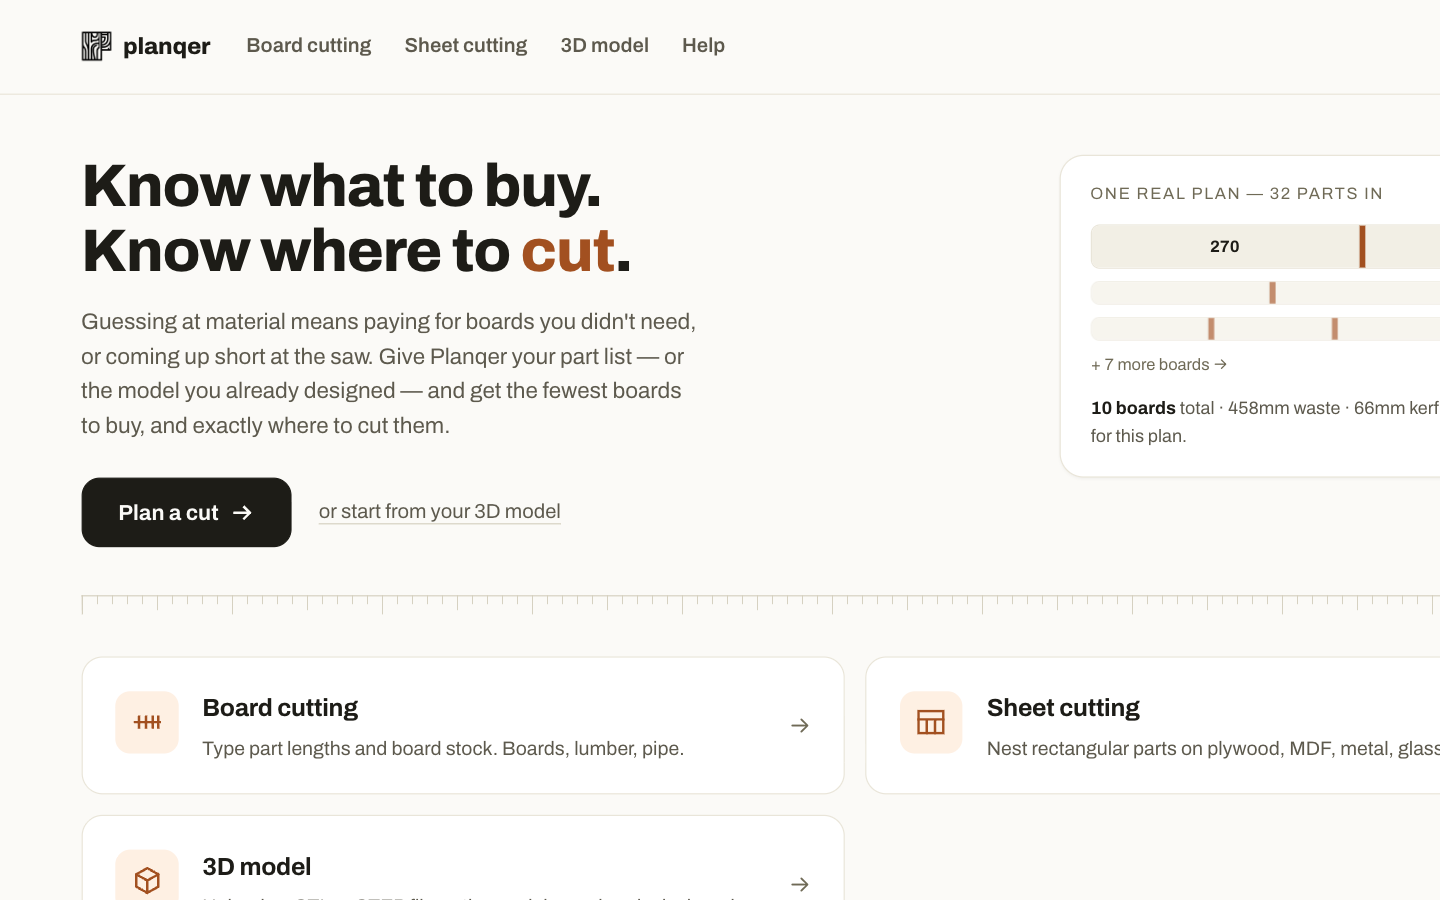
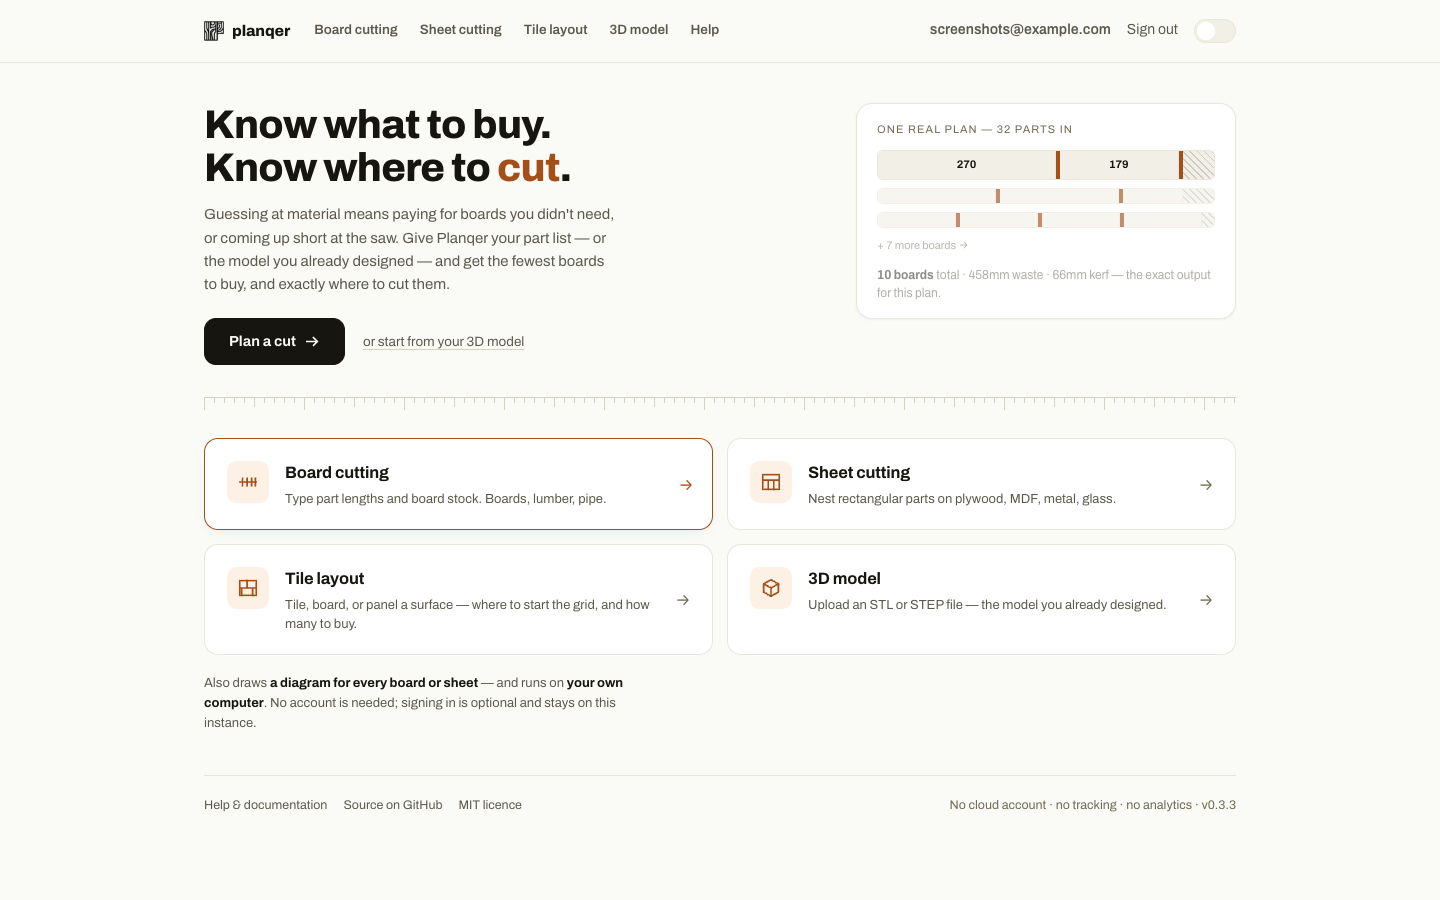
docs: refresh UI screenshots

diff --git a/README.md b/README.md
@@ -30,10 +30,11 @@ storage.
 <!-- markdownlint-disable MD013 MD033 -->
 <table>
 <tr>
-<td width="25%"><a href="docs/assets/screenshots/board-cutting-result.png"><img src="docs/assets/screenshots/board-cutting-result.png" alt="Board cutting result"></a><br><sub>Board cutting</sub></td>
-<td width="25%"><a href="docs/assets/screenshots/sheet-cutting-result.png"><img src="docs/assets/screenshots/sheet-cutting-result.png" alt="Sheet cutting result"></a><br><sub>Sheet cutting</sub></td>
-<td width="25%"><a href="docs/assets/screenshots/model-cutlist.png"><img src="docs/assets/screenshots/model-cutlist.png" alt="3D model upload"></a><br><sub>3D model → cutlist</sub></td>
-<td width="25%"><a href="docs/assets/screenshots/dashboard.png"><img src="docs/assets/screenshots/dashboard.png" alt="Project dashboard"></a><br><sub>Saved projects</sub></td>
+<td width="20%"><a href="docs/assets/screenshots/board-cutting-result.png"><img src="docs/assets/screenshots/board-cutting-result.png" alt="Board cutting result"></a><br><sub>Board cutting</sub></td>
+<td width="20%"><a href="docs/assets/screenshots/sheet-cutting-result.png"><img src="docs/assets/screenshots/sheet-cutting-result.png" alt="Sheet cutting result"></a><br><sub>Sheet cutting</sub></td>
+<td width="20%"><a href="docs/assets/screenshots/tile-layout.png"><img src="docs/assets/screenshots/tile-layout.png" alt="Tile layout surface setup"></a><br><sub>Tile layout</sub></td>
+<td width="20%"><a href="docs/assets/screenshots/model-cutlist.png"><img src="docs/assets/screenshots/model-cutlist.png" alt="3D model upload"></a><br><sub>3D model → cutlist</sub></td>
+<td width="20%"><a href="docs/assets/screenshots/dashboard.png"><img src="docs/assets/screenshots/dashboard.png" alt="Project dashboard"></a><br><sub>Saved projects</sub></td>
 </tr>
 </table>
 <!-- markdownlint-enable MD013 MD033 -->
@@ -93,6 +94,30 @@ registration will silently fail as CORS-blocked requests:*
 ```bash
 PLANQER_CORS_ORIGINS=http://192.168.1.50:3001 docker compose up -d --build
 ```
+
+---
+
+## Secret Scanning
+
+Planqer uses [Betterleaks](https://github.com/betterleaks/betterleaks) to check
+staged changes for accidentally committed secrets.
+
+Install the pre-commit tool and enable the repository hook:
+
+```bash
+python -m pip install pre-commit
+pre-commit install
+```
+
+The hook runs automatically before each commit. To run it manually:
+
+```bash
+pre-commit run betterleaks
+pre-commit run betterleaks --all-files
+```
+
+The hook is installed per clone and is not enabled by `git clone` automatically.
+Do not use `git commit --no-verify`, which bypasses the check.
 
 ---
 
